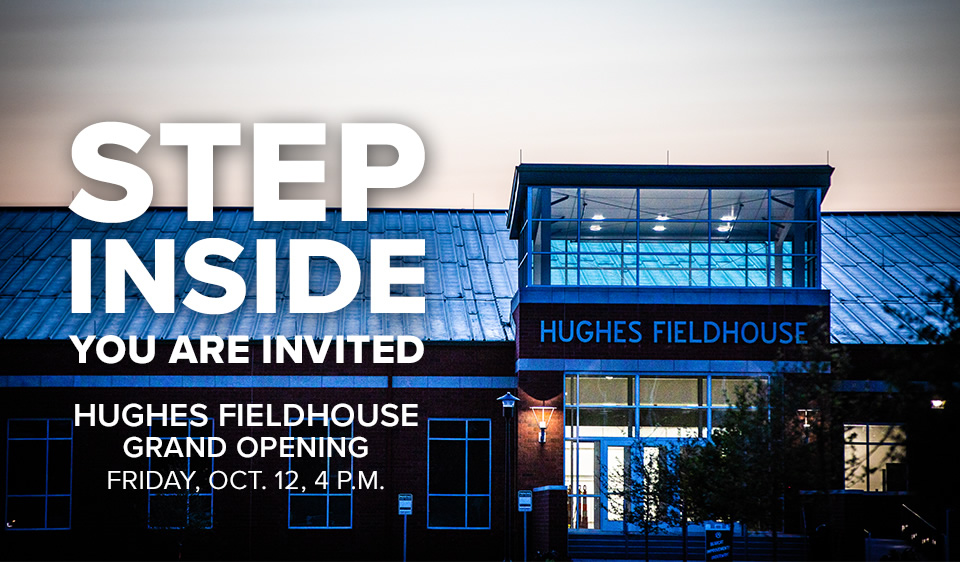
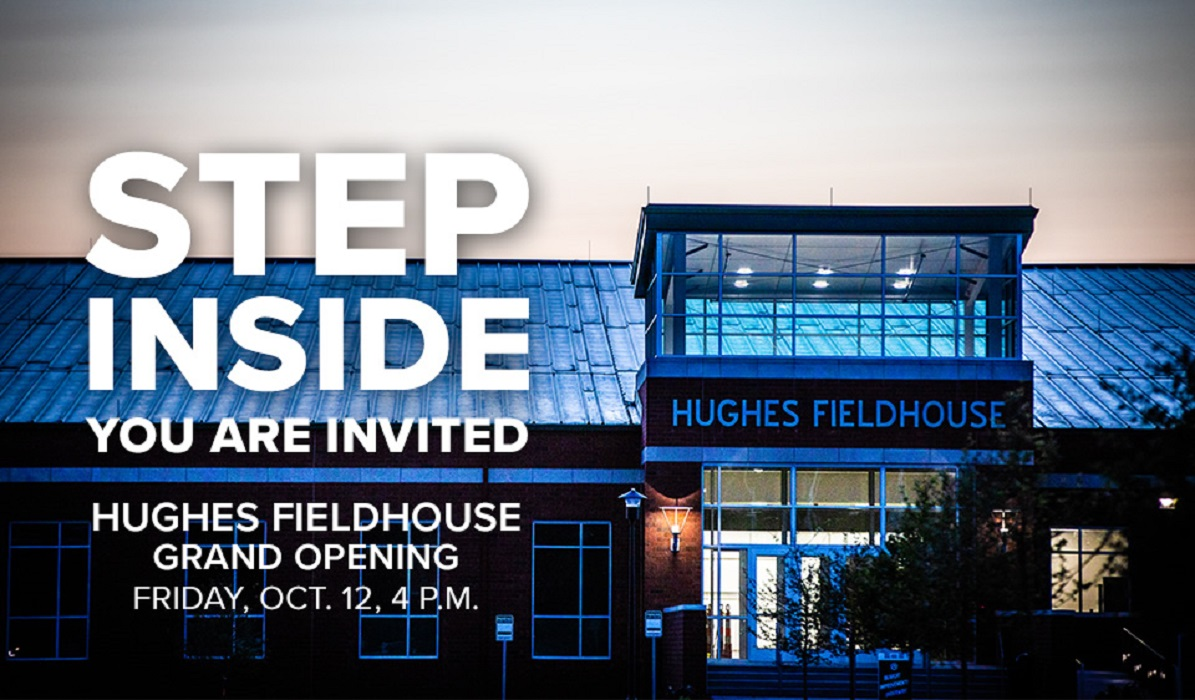
Adjusted the size of the image

diff --git a/src/css/style.css b/src/css/style.css
@@ -8,6 +8,11 @@ body {
   padding-top: 54px;
 }
 
+.imageqwe {
+  max-width: 100%;
+  height: 525px ;
+}
+
 @media (min-width: 992px) {
   body {
     padding-top: 56px;
